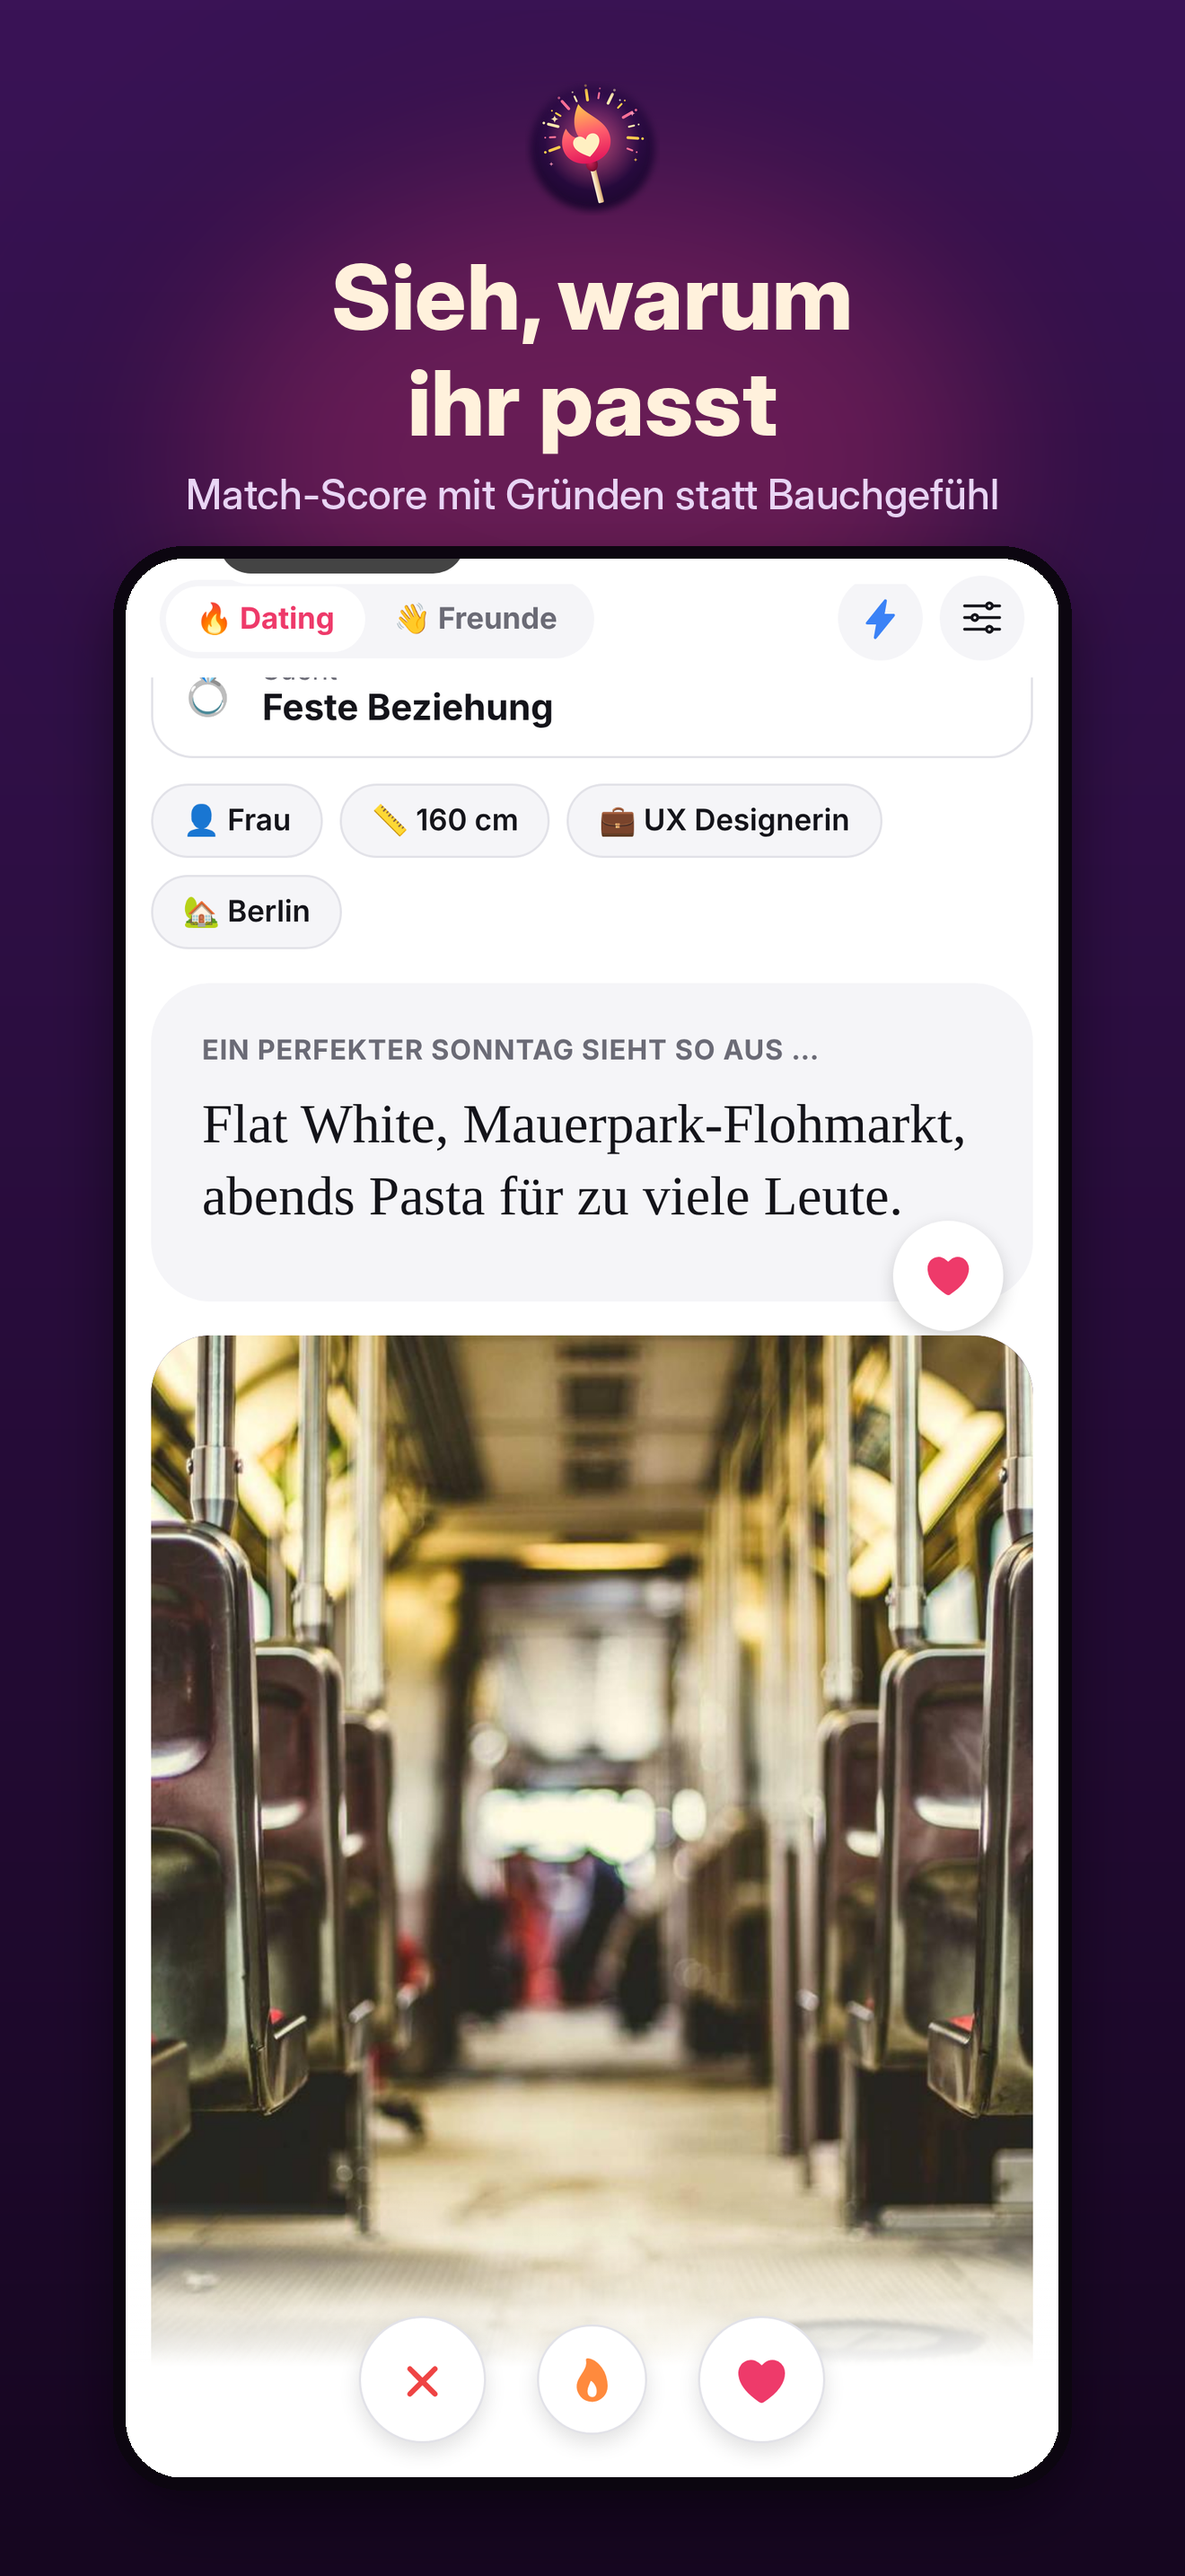
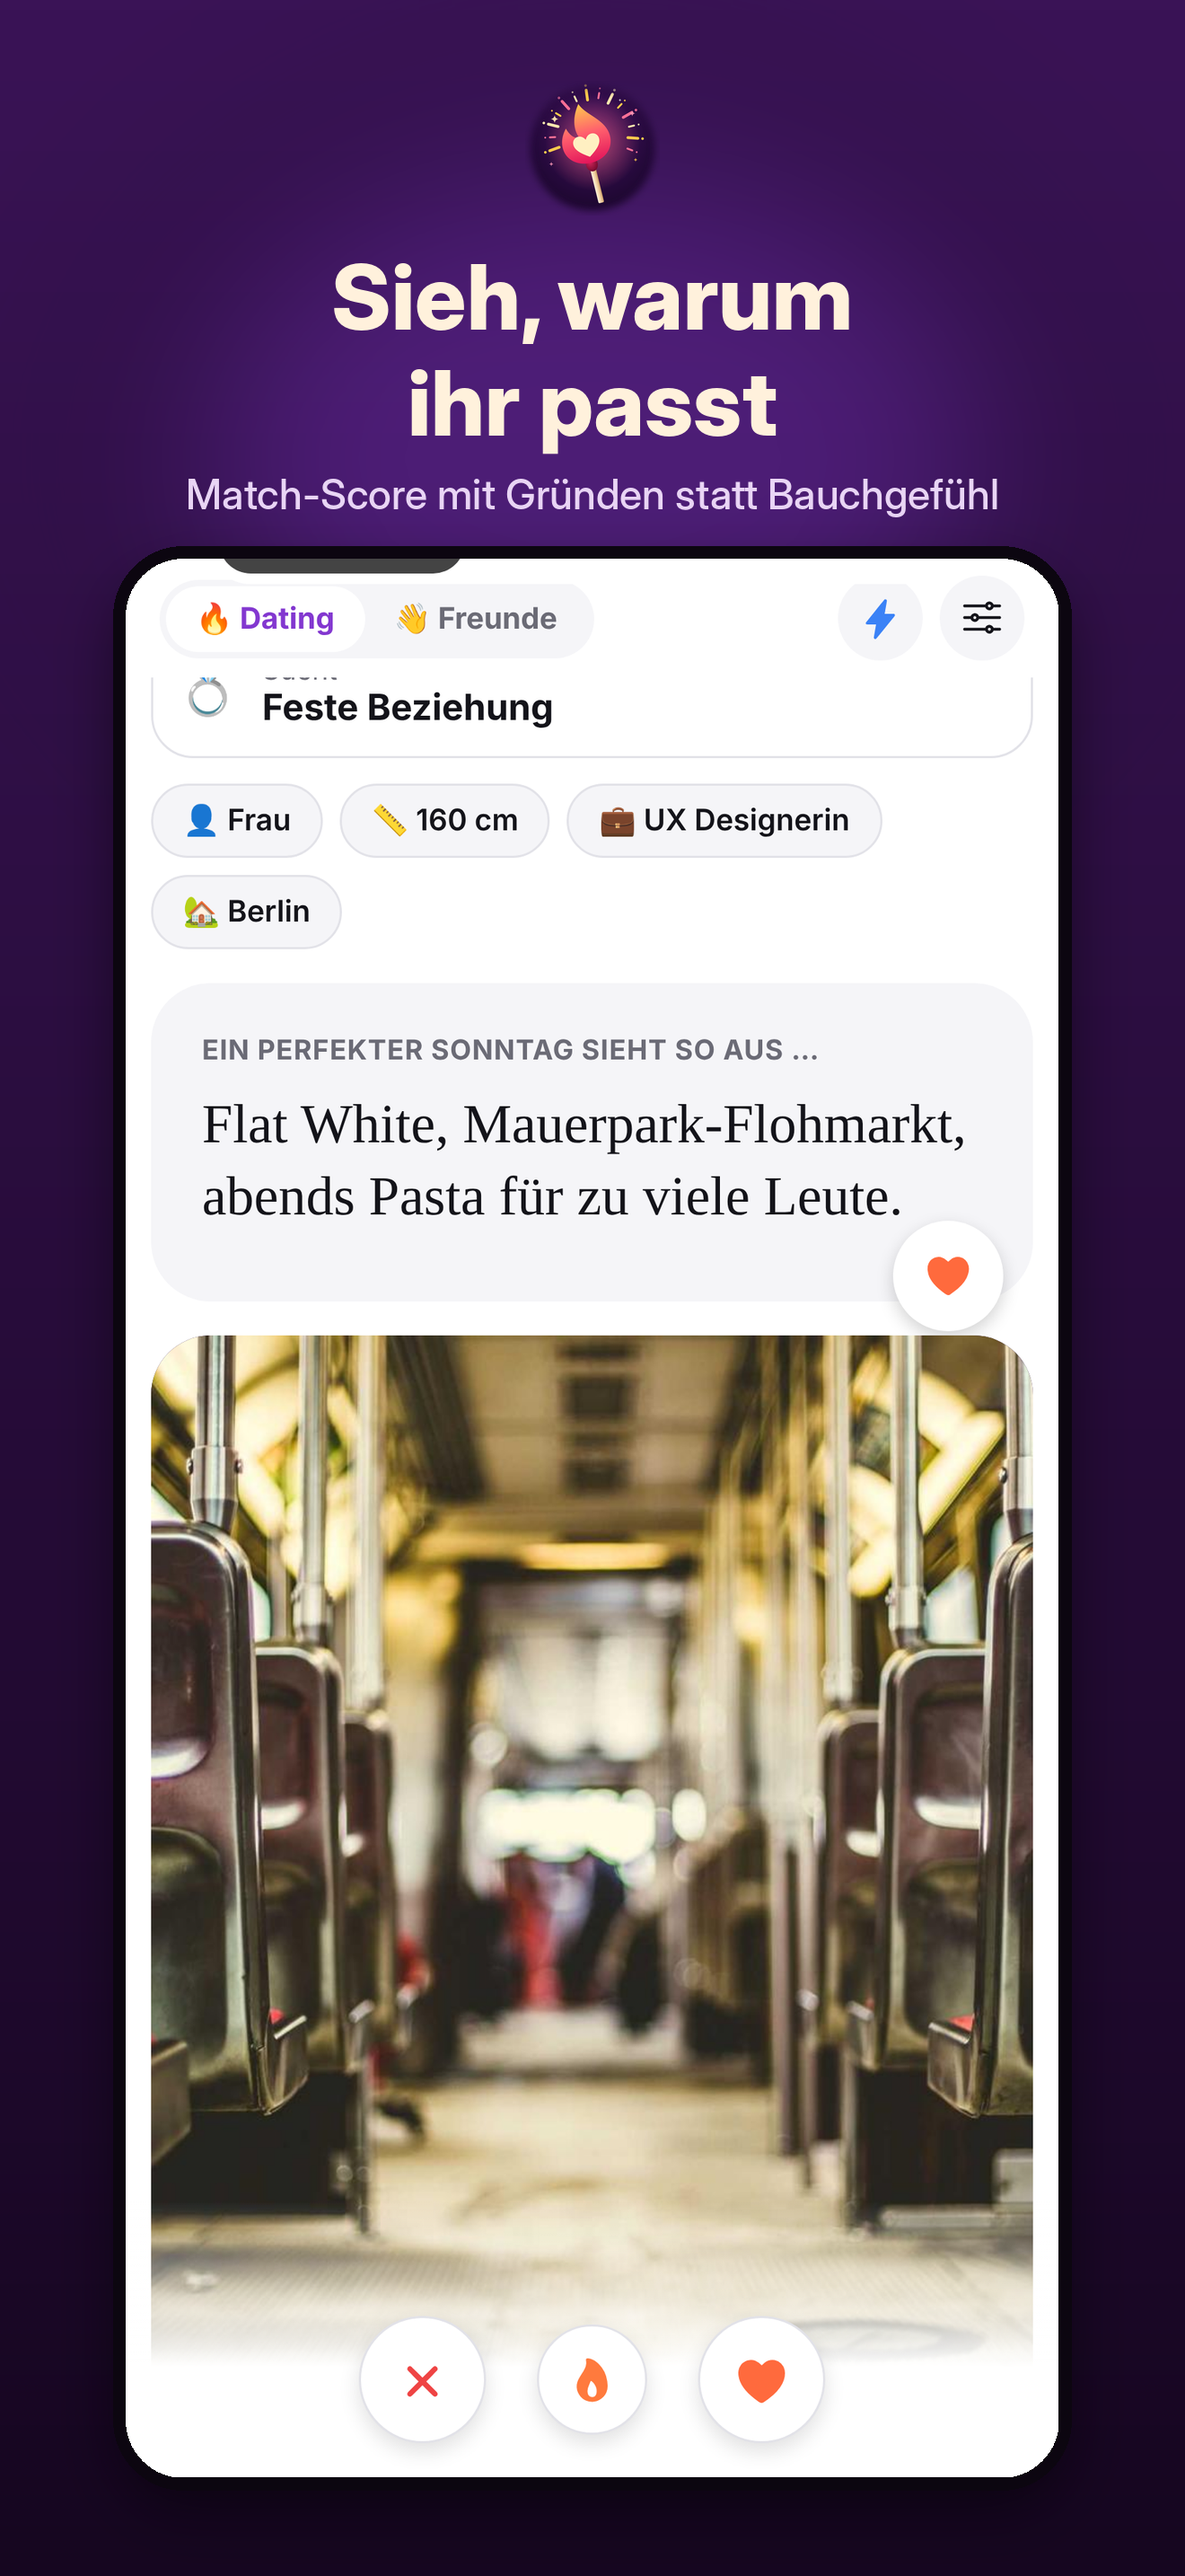
Own colour scheme: violet/night plum instead of a pink-orange gradient
Main colour, buttons and highlights are now violet from the logo; flame orange
and gold are only accents (hearts, Funken, Daily Spark). Website colours and
store screenshots updated to match.

Claude-Session: https://claude.ai/code/session_01VYhq9Hb544a6kubykhshie

Changed region(s): [[0.2174, 0.0931, 0.7765, 0.2483], [0.6212, 0.8999, 0.6833, 0.931], [0.7765, 0.4655, 0.8076, 0.4965]]

diff --git a/src/components/profile-view.tsx b/src/components/profile-view.tsx
@@ -33,7 +33,7 @@ export function ProfileView({ profile, compat, onLikeItem, mode = 'dating', spar
         accessibilityRole="button"
         accessibilityLabel={item.kind === 'photo' ? 'Auf dieses Foto reagieren' : 'Auf diese Antwort reagieren'}
         style={({ pressed }) => [styles.likeBtn, { backgroundColor: onDark ? 'rgba(255,255,255,0.95)' : c.card, transform: [{ scale: pressed ? 0.9 : 1 }] }]}>
-        <Ionicons name={likeIcon} size={24} color={mode === 'friends' ? Brand.super : Brand.primary} />
+        <Ionicons name={likeIcon} size={24} color={mode === 'friends' ? Brand.super : Brand.heart} />
       </Pressable>
     ) : null;
 
@@ -93,7 +93,7 @@ export function ProfileView({ profile, compat, onLikeItem, mode = 'dating', spar
   // 2 · why you match (Matchwerk's own feature)
   if (compat) {
     blocks.push(
-      <View key="compat" style={[styles.compat, { backgroundColor: c.dark ? '#2A1220' : '#FFF1EC' }]}>
+      <View key="compat" style={[styles.compat, { backgroundColor: c.dark ? '#24133A' : '#F4ECFB' }]}>
         <View style={styles.score}>
           <Text style={styles.scoreNum}>{compat.score}</Text>
           <Text style={styles.scorePct}>%</Text>

diff --git a/src/app/(tabs)/index.tsx b/src/app/(tabs)/index.tsx
@@ -167,7 +167,7 @@ export default function Discover() {
           <View style={styles.actions} pointerEvents="box-none">
             <IconButton icon="close" color={Brand.pass} size={60} label="Weiter" onPress={() => decide(deck[0], 'pass')} />
             <IconButton icon="flame" color={Brand.accent} size={52} label="Funke senden" onPress={() => decide(deck[0], 'superlike')} />
-            <IconButton icon={mode === 'friends' ? 'hand-left' : 'heart'} color={Brand.primary} size={60}
+            <IconButton icon={mode === 'friends' ? 'hand-left' : 'heart'} color={mode === 'friends' ? Brand.super : Brand.heart} size={60}
               label={mode === 'friends' ? 'Verbinden' : 'Like'} onPress={() => decide(deck[0], 'like')} />
           </View>
           <LikeSheet profile={deck[0]} item={noteFor ?? null} mode={mode} busy={sending}

diff --git a/src/constants/theme.ts b/src/constants/theme.ts
@@ -1,11 +1,17 @@
 import { Platform, useColorScheme } from 'react-native';
 
-/** Colours taken from the Matchwerk logo: night plum, match-flame orange → pink, warm cream. */
+/**
+ * Matchwerk's own palette, taken from the logo: night plum + violet as the main colour,
+ * match-flame orange and gold only as accents (hearts, Funken, highlights), warm cream on dark.
+ * Deliberately distinct from the pink/red-orange look of other dating apps.
+ */
 export const Brand = {
-  primary: '#EE3A6A',
-  primaryDark: '#D02A58',
-  accent: '#FF8A3D',
-  gradient: ['#FF8A3D', '#EE3A6A'] as const,
+  primary: '#8338D0',
+  primaryDark: '#5E1E99',
+  accent: '#FF7A3D',
+  gradient: ['#9046DB', '#5E1E99'] as const,
+  /** hearts and likes */
+  heart: '#FF6A3D',
   /** logo background */
   night: '#2A0E3F',
   nightDeep: '#160620',

diff --git a/src/app/profile/[id].tsx b/src/app/profile/[id].tsx
@@ -111,7 +111,7 @@ export default function ProfileScreen() {
           style={[styles.bottom, { paddingBottom: insets.bottom + 12 }]}>
           <IconButton icon="close" color={Brand.pass} size={60} label="Weiter" onPress={() => act('pass')} />
           <IconButton icon="flame" color={Brand.accent} size={48} label="Funke" onPress={() => act('superlike')} />
-          <IconButton icon={mode === 'friends' ? 'hand-left' : 'heart'} color={Brand.primary} size={60} label={mode === 'friends' ? 'Verbinden' : 'Like'} onPress={() => act('like')} />
+          <IconButton icon={mode === 'friends' ? 'hand-left' : 'heart'} color={mode === 'friends' ? Brand.super : Brand.heart} size={60} label={mode === 'friends' ? 'Verbinden' : 'Like'} onPress={() => act('like')} />
         </LinearGradient>
       )}
 

diff --git a/scripts/compose-store-shots.py b/scripts/compose-store-shots.py
@@ -29,7 +29,7 @@ logo = Image.open('assets/brand/logo-mark.png').convert('RGBA').resize((150, 150
 for i, (n, head, sub) in enumerate(ITEMS, 1):
     bg = G.copy().convert('RGBA')
     glow = Image.new('RGBA', (W, H), (0, 0, 0, 0))
-    ImageDraw.Draw(glow).ellipse((W // 2 - 520, 120, W // 2 + 520, 900), fill=(238, 58, 106, 70))
+    ImageDraw.Draw(glow).ellipse((W // 2 - 520, 120, W // 2 + 520, 900), fill=(131, 56, 208, 80))
     bg.alpha_composite(glow.filter(ImageFilter.GaussianBlur(120)))
     bg.alpha_composite(logo, ((W - 150) // 2, 90))
     d = ImageDraw.Draw(bg)
